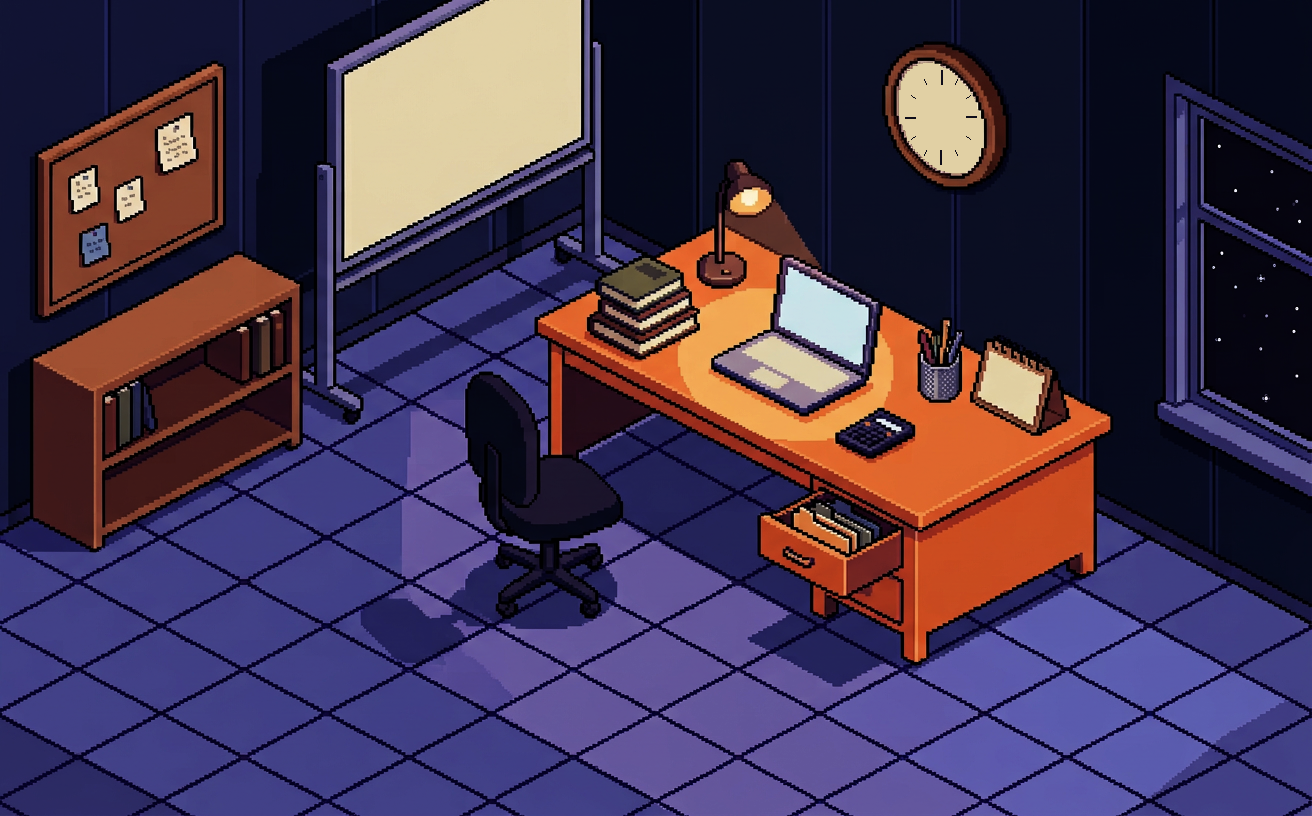
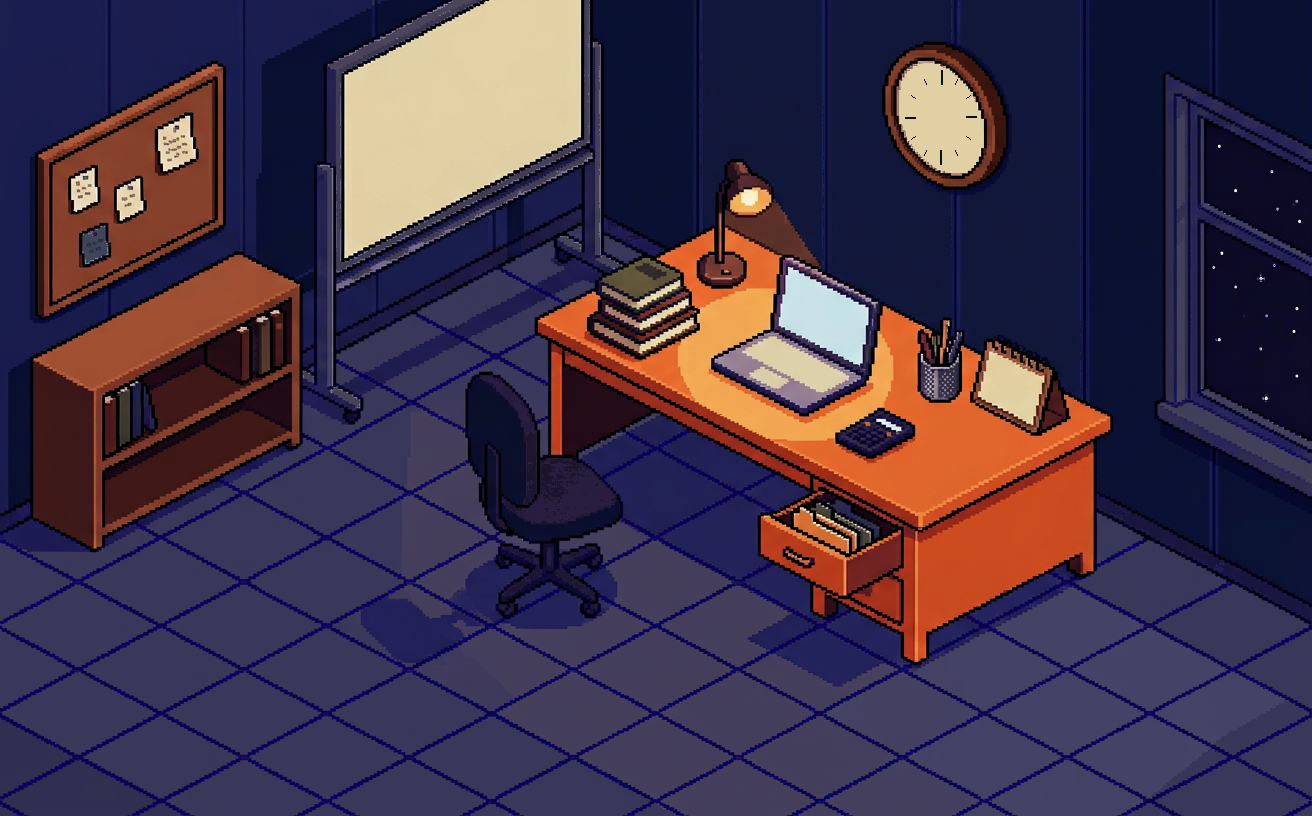
Latar ruangan disamakan dengan acuan: navy gelap + lantai kalem
- scene_face.restyle_background: warna kebiruan terang (lantai, panel dinding)
  dipadatkan ke palet navy gelap, bayangan nyaris hitam digeser sedikit ke atas
- hanya warna latar yang diusik, jadi tidak ada kotak bekas masking; objek
  hangat (kayu, lampu, kertas) tetap terang
- versi 0.11.0 (versionCode 6)

diff --git a/docs/index.html b/docs/index.html
@@ -33,14 +33,14 @@
 </head>
 <body>
 <header>
-  <h1>Ruang Kelas 0.10.0 · Launcher</h1>
+  <h1>Ruang Kelas 0.11.0 · Launcher</h1>
   <div class="sub">
     Satu layar saja: gambar workspace isometrik ukuran penuh. Tidak ada sidebar, tab, header,
     atau panel. Setiap objek di gambar bisa diketuk dan akan membuka aplikasi bawaannya —
     aplikasi itu dibuat menyusul satu per satu. Jam dinding punya jarum yang benar-benar
     berjalan, dan kalender meja mencetak tanggal hari ini.
   </div>
-  <a class="cta" href="../dist/RuangKelas-0.10.0-debug.apk" download>⬇ Unduh APK 0.10.0</a>
+  <a class="cta" href="../dist/RuangKelas-0.11.0-debug.apk" download>⬇ Unduh APK 0.11.0</a>
 </header>
 
 <main>

diff --git a/tools/scene_face.py b/tools/scene_face.py
@@ -8,6 +8,7 @@ tetap dipertahankan. Hasilnya muka jam bersih yang siap ditimpa jarum asli.
 Dipakai oleh `tools/make_scene.py` (aset Android) dan `tools/make_preview.py`
 (preview browser) supaya keduanya memakai gambar yang sama.
 """
+import colorsys
 import math
 from pathlib import Path
 
@@ -68,11 +69,57 @@ def grade(im):
     return ImageEnhance.Color(im.point(lut * 3)).enhance(GRADE_SAT)
 
 
+BG_LUMA_FLOOR = 45    # hanya permukaan latar yang cukup terang ikut diturunkan
+BG_BASE = 22.0        # lantai/dinding paling gelap setelah diturunkan
+BG_SLOPE = 0.37       # seberapa banyak kecerahan latar dipadatkan
+BG_SAT = 0.72         # latar dibuat kalem, tidak ungu menyala
+BG_DARK_LUMA = 25     # di bawah ini latar digeser sedikit ke atas
+BG_DARK_GAIN = 1.25
+BG_DARK_ADD = 7.0
+
+
+def restyle_background(im):
+    """Samakan latar (dinding + lantai) dengan acuan: biru-tuli gelap, kalem.
+
+    Hanya piksel kebiruan yang terang (lantai, panel dinding) yang dipadatkan;
+    objek hangat (kayu, lampu, kertas) dan bayangan gelap tidak diusik, jadi tidak
+    ada kotak-kotak bekas masking.
+    """
+    px = im.load()
+    w, h = im.size
+    cache = {}
+    for y in range(h):
+        for x in range(w):
+            p = px[x, y]
+            c = cache.get(p)
+            if c is None:
+                r, g, b = p
+                luma = 0.299 * r + 0.587 * g + 0.114 * b
+                hh, s, _v = colorsys.rgb_to_hsv(r / 255, g / 255, b / 255)
+                if b > r and luma < BG_DARK_LUMA:
+                    # dinding/bayangan yang nyaris hitam dinaikkan sedikit supaya
+                    # panel dinding masih terbaca seperti di acuan
+                    k = (luma * BG_DARK_GAIN + BG_DARK_ADD) / max(luma, 1.0)
+                    c = (min(255, int(r * k)), min(255, int(g * k)), min(255, int(b * k)))
+                elif b > r + 20 and s >= 0.30 and luma >= BG_LUMA_FLOOR:
+                    nl = BG_BASE + BG_SLOPE * luma
+                    k = nl / luma
+                    nr, ng, nb = r * k, g * k, b * k
+                    hh2, _, _ = colorsys.rgb_to_hsv(nr / 255, ng / 255, nb / 255)
+                    rr, gg, bb = colorsys.hsv_to_rgb(hh2, s * BG_SAT, max(nr, ng, nb) / 255)
+                    c = (int(rr * 255), int(gg * 255), int(bb * 255))
+                else:
+                    c = p
+                cache[p] = c
+            px[x, y] = c
+    return im
+
+
 def load_scene():
     """Gambar scene siap pakai: warna digrade, muka jam dikosongkan."""
     raw = Image.open(ART).convert("RGB")
     spans = cream_mask(raw, CLOCK_BOX)          # deteksi di gambar asli
-    im = grade(raw)
+    im = restyle_background(grade(raw))
     cream = _avg_cream(im, spans)
     px = im.load()
     for y, (a, b) in spans.items():

diff --git a/README.md b/README.md
@@ -5,13 +5,13 @@ satu layar berisi gambar workspace isometrik ukuran penuh. Tanpa sidebar, tanpa 
 tanpa header, tanpa panel. Setiap objek di gambar bisa diketuk untuk membuka aplikasi
 bawaannya — aplikasi itu dibuat menyusul, satu per satu.
 
-**Status: v0.10.0 — scene digambar ulang dengan nuansa yang dipilih pengguna: ruangan lebih
-lapang, lantai biru-ungu, kayu lebih hangat, suasana malam lebih pekat. Jam dinding hidup,
-kalender mencetak tanggal hari ini, kalkulator di kanan laptop.**
+**Status: v0.11.0 — latar ruangan (dinding + lantai) disamakan dengan acuan pengguna:
+navy gelap dan lantai batu-tuli yang kalem, tanpa kotak bekas masking. Objek tetap hangat
+di bawah lampu. Jam dinding hidup, kalender mencetak tanggal hari ini.**
 
 | | |
 |---|---|
-| APK siap pasang | [`dist/RuangKelas-0.10.0-debug.apk`](dist/RuangKelas-0.10.0-debug.apk) |
+| APK siap pasang | [`dist/RuangKelas-0.11.0-debug.apk`](dist/RuangKelas-0.11.0-debug.apk) |
 | Build otomatis | [`.github/workflows/android.yml`](.github/workflows/android.yml) |
 | Bukti jalan | [`docs/index.html`](docs/index.html) · [`docs/screens/`](docs/screens) |
 | Prototipe HTML lama | [`preview-ruang-kelas.html`](preview-ruang-kelas.html) (acuan desain) |
@@ -20,7 +20,7 @@ kalender mencetak tanggal hari ini, kalkulator di kanan laptop.**
 
 ## Cara memasang
 
-1. Unduh `dist/RuangKelas-0.10.0-debug.apk`, buka di tablet, izinkan "instal dari sumber ini".
+1. Unduh `dist/RuangKelas-0.11.0-debug.apk`, buka di tablet, izinkan "instal dari sumber ini".
 2. Buka **Ruang Kelas** — launcher langsung tampil penuh, landscape, tanpa system bar.
 
 ## Mode landscape
@@ -87,7 +87,7 @@ setiap hotspot berada tepat di atas objeknya dan muka jam/kalender terisi.
 art/workspace-iso-v3.png          gambar isometrik terkini 1312 × 816 (ruangan lapang)
 art/workspace-iso-v2.png          gambar sebelumnya (arsip)
 art/workspace-iso-v1.png          gambar pertama (arsip)
-tools/scene_face.py                bersihkan muka jam + gambar tanda jam di piksel asli
+tools/scene_face.py                grade warna latar, bersihkan muka jam, gambar tanda jam
 tools/make_scene.py                → res/drawable-nodpi/scene.png (tanpa padding)
 tools/make_preview.py              bangun web/index.html dari Data.kt (preview browser)
 tools/check_preview.mjs            uji area ketuk preview (jsdom)
@@ -107,6 +107,6 @@ cd android && gradle :app:assembleDebug
 ```
 
 GitHub Actions menjalankan hal yang sama, menyimpan APK ke `dist/`, dan memperbarui
-release `v0.10.0-android`. Workflow kedua (`android-preview.yml`, dipicu
+release `v0.11.0-android`. Workflow kedua (`android-preview.yml`, dipicu
 `.ci/preview.trigger`) memasang APK di emulator tablet 2560 × 1600, memotret launcher,
 mengetuk beberapa objek, lalu menyimpan screenshot ke `docs/screens/`.
